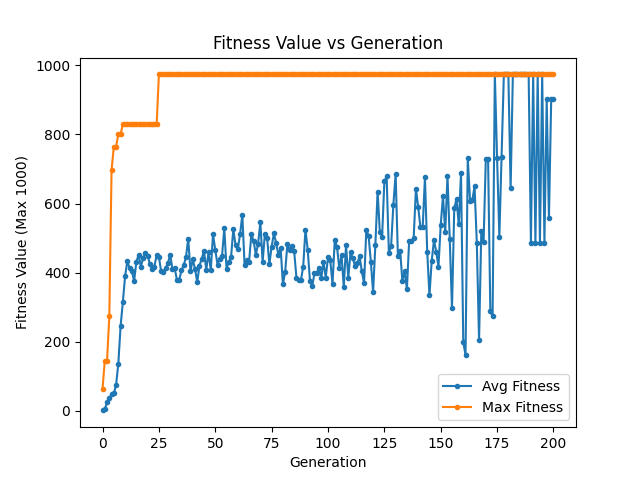
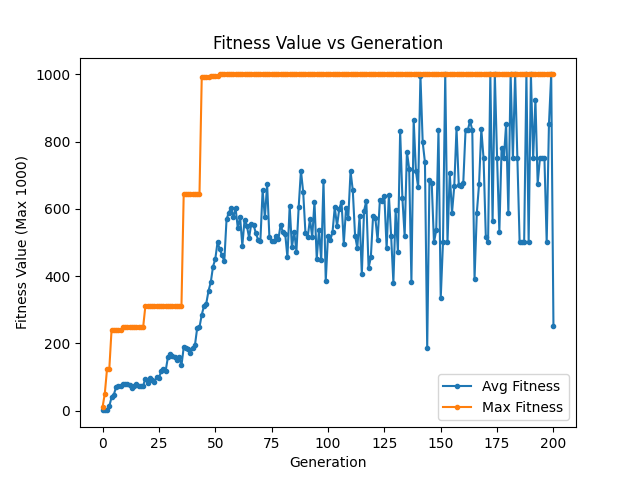
Confirmation trial after fixed constant bug

diff --git a/GEP.py b/GEP.py
@@ -31,8 +31,8 @@ class GeneExpressionProgramming():
         self.chrom_length = self.nhead + self.ntail
 
         self.dc_length = self.ntail
-        #self.const_list = np.random.uniform(const_range[0],const_range[1],self.dc_length)
-        self.const_list = [3.0,1.1,4.0,1.1,4.0,1.1,4.0,1.1]
+        self.const_list = np.random.uniform(const_range[0],const_range[1],self.dc_length)
+        #self.const_list = [3.0,1.1,4.0,1.1,4.0,1.1,4.0,1.1]
 
         self.operator_probabilities = operator_probabilities
 
